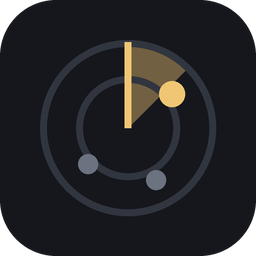
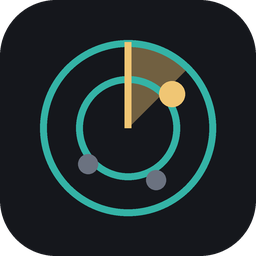
Teal rings, so the radar reads as a radar
Near-black rings on a near-black tile read as scratches. Teal carries at
every size and still loses to the amber contact, which is the one thing the
icon is trying to say. The page favicon follows the same change.

Changed region(s): [[0.1562, 0.1562, 0.8438, 0.8438], [0.2812, 0.2812, 0.625, 0.625], [0.375, 0.4062, 0.7188, 0.7188]]

diff --git a/assets/make_icon.py b/assets/make_icon.py
@@ -11,7 +11,10 @@ from PIL import Image, ImageDraw
 
 S = 1024          # draw big, downscale for smooth edges
 BG = (21, 23, 28, 255)
-RING = (49, 53, 63, 255)
+# Teal, not the near-black the rings started as: on a dark tile they read
+# as scratches rather than a radar. Bright enough to carry, dim enough
+# that the amber contact still wins the eye.
+RING = (52, 179, 166, 255)
 AMBER = (240, 198, 116, 255)
 GREY = (107, 114, 128, 255)
 WEDGE = tuple(round(b + 0.42 * (a - b)) for b, a in

diff --git a/dashboard.py b/dashboard.py
@@ -38,7 +38,7 @@ FAVICON = (
     "viewBox='0 0 256 256'>"
     "<rect width='256' height='256' rx='56' fill='%2315171c'/>"
     "<path d='M128 128 L128 42 A86 86 0 0 1 189 67 Z' fill='%23716141'/>"
-    "<circle cx='128' cy='128' r='88' fill='none' stroke='%2331353f' "
+    "<circle cx='128' cy='128' r='88' fill='none' stroke='%2334b3a6' "
     "stroke-width='13'/>"
     "<line x1='128' y1='128' x2='128' y2='42' stroke='%23f0c674' "
     "stroke-width='13' stroke-linecap='round'/>"
